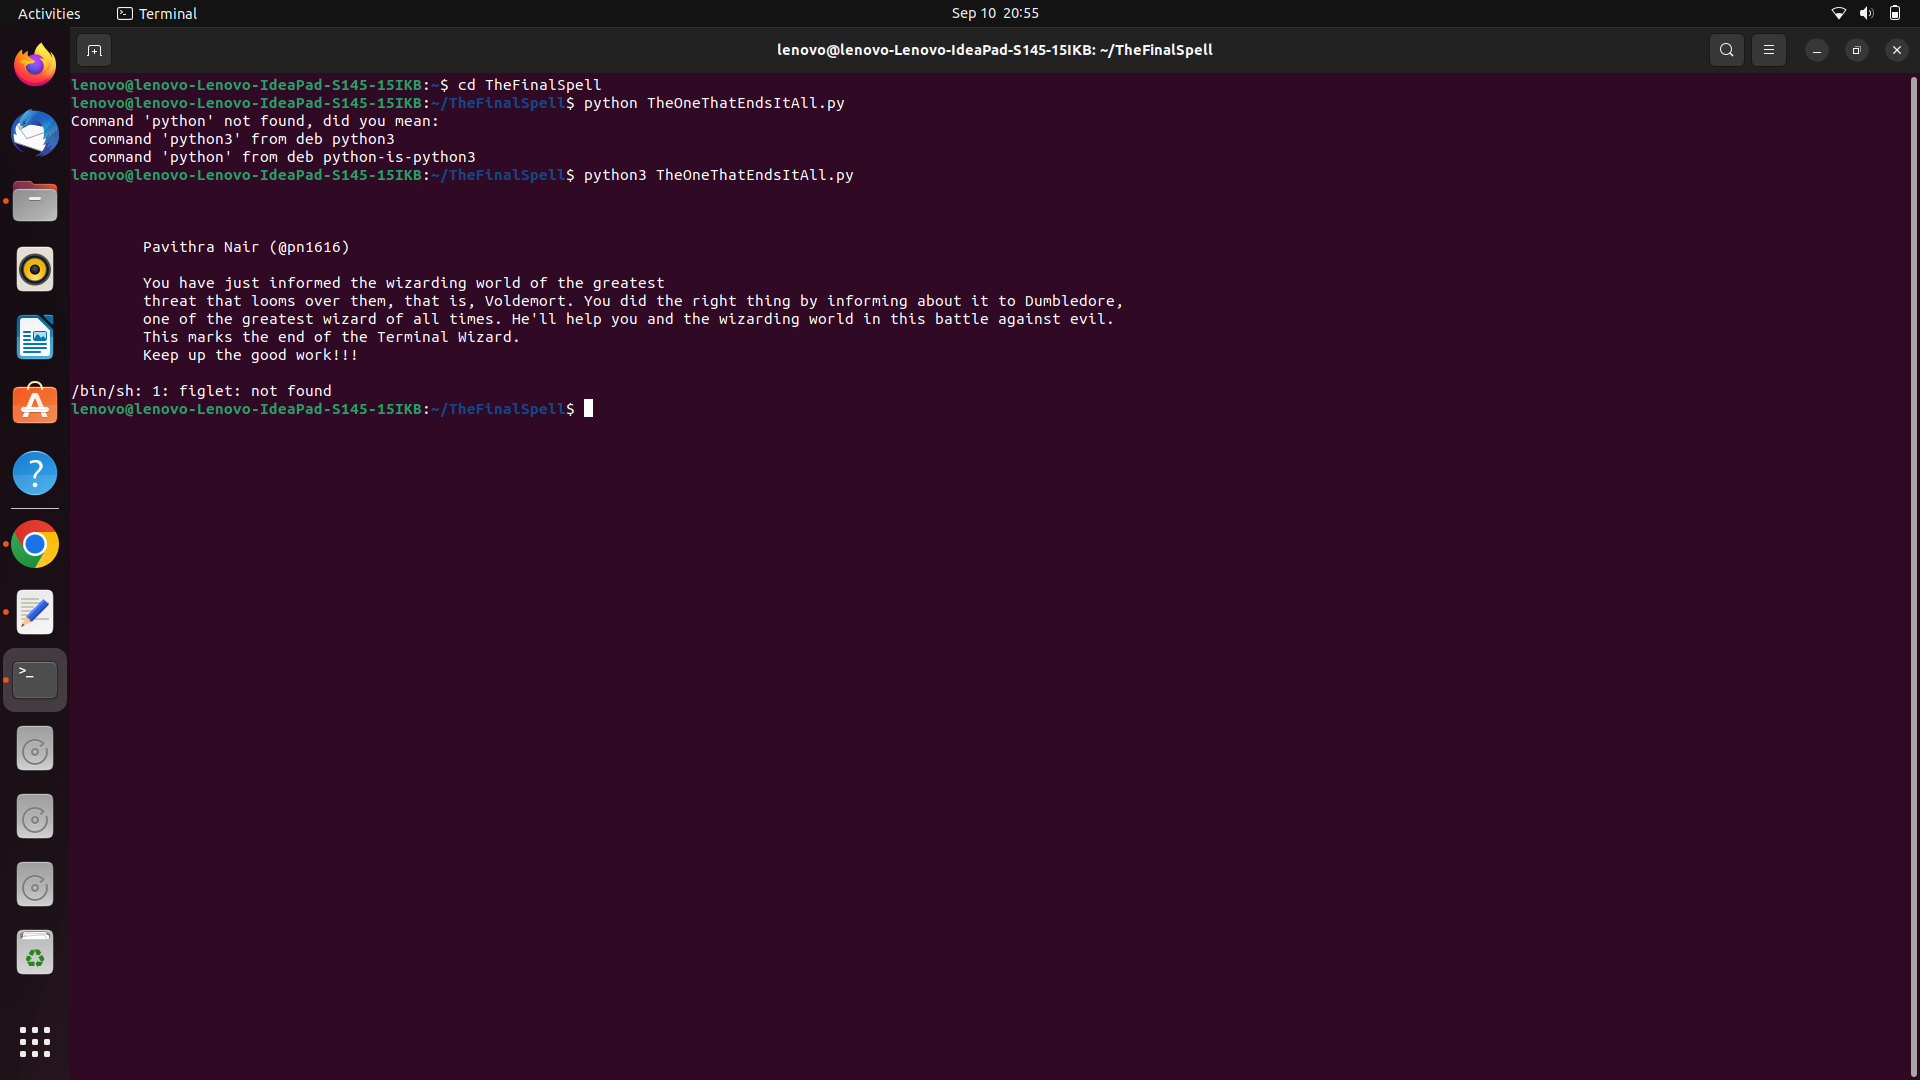
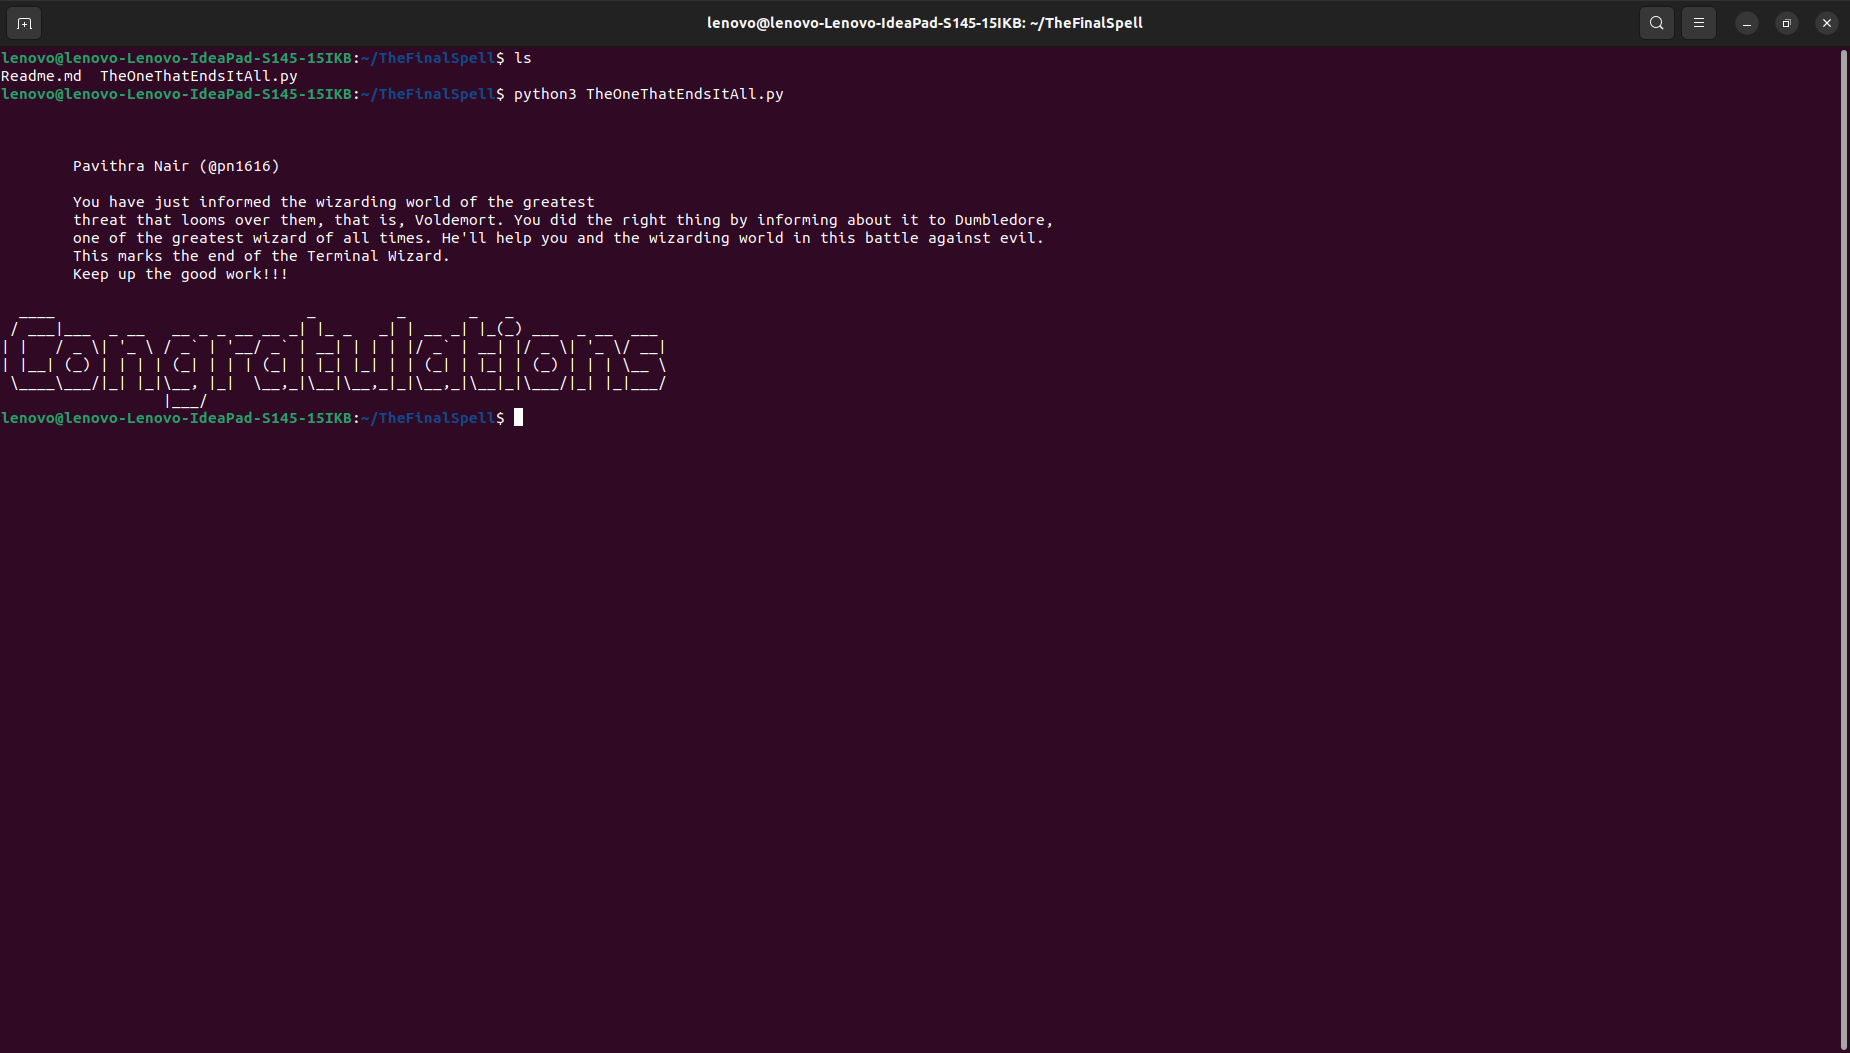
updating bandit and terminal wizard

diff --git a/logs.md b/logs.md
@@ -1,0 +1,81 @@
+# Updates and Logs
+
+I spent a week researching on a few tasks because I did'nt have Ubuntu yet due to some issues with my laptop
+
+- Installed Ubuntu - 09-09-2023
+- Started working on the tasks - 10-09-2023  
+  
+  
+#### Date: 10.09.2023  
+- Hours spent: 4 hours
+- I completed the terminal wizard task. Downloaded Hugo and picked a theme.  
+
+#### Date: 11.09.2023  
+- Hours spent: 7 hours
+- Did three hello world problems : Python, C, C++ . Doing the first two was not that hard as I knew the basics but I had to watch a basic C++ video to write the code for the question and a lot and lot of help from google. Then did a few CP problems, the simple ones. I did not understand the others that much so kept it aside. Completed creating the hugo site but coudn't deploy it to github pages because of some error.
+- Worked on the tasks till 1:30am.
+
+#### Date: 12.09.2023  
+- Hours spent: 8 hours
+- Completed two more hello world languages: Java, Javascript. I had learnt a few things about these languages during the week I spent researching. But needed a lot of help from google. Started HyperText Mockup language task. Created the landing page partially. Had to read into a lot of the html codes online.
+- Worked on the tasks till 2:30am.  
+
+#### Date: 13.09.2023  
+- Hours spent: 9 hours
+- Completed Hyptertext Mockup language successfully. They were many blockers. Very tiny tiny details that was affected by the inefficiency of the css code I wrote, so frustrating. Had to work on it and make it better. 
+- Worked on the tasks till 3am  
+
+#### Date: 14.09.2023
+- Hours spent: 6 hours
+- Started researching on the discord bot. Found it quite difficult. installed the python virtual environment. downloaded the packages required. started writing the code. 
+- Worked on the tasks till 1am  
+
+#### Date: 15.09.2023
+- Hours spent: 3 hours
+- Felt stuck on the discord bot. So i started ak-47 started. researched on manifest and chrome extensions. did halfway through it.
+- Worked on the tasks till 12:30am  
+
+#### Date: 16.09.2023
+- Hours spent: 7 hours
+- Completed AK-47 task. Started researching on the pokesearch task
+- Worked on the tasks till 1:30am  
+
+#### Date: 17.09.2023
+- Hours spent: 12 hours
+- Almost completed Pokesearch. the buttons in the search window are center aligned. couldnt change it. i hope thats okay.
+- Worked on the tasks till 2:30am  
+
+#### Date: 18.09.2023
+- Hours spent: 4 hours
+- Completed PokeSearch. Started researching on flutter and dart for the geoquest app task
+- Worked until: 1:00am  
+
+#### Date: 19.09.2023
+- Hours spent: 2 hours
+- worked on geoquest. was not feeling well so didn't do much.
+- Worked on the tasks till 11:30pm  
+
+#### Date: 20.09.2023
+- Hours spent: 8 hours
+- worked on geoquest. failed miserably. decided its not for me. so started an additional task. completed task-13
+- Worked on the tasks till 1:30am  
+
+#### Date: 21.09.2023
+- Hours spent: 1 hour
+- was travelling from hostel to home. did not do any tasks. there was an issue with my github repo. resolved it
+- Worked on the tasks till 12:00am  
+
+#### Date: 22.09.2023
+- Hours spent: 3 hours
+- was preparing for an interview so only could do a little bit. I had already solved a few euler problems earlier. so i completed task-15. 
+- Worked on the tasks till 12:30am  
+
+#### Date: 23.09.2023
+- Hours spent: 10 hours
+- Had to run the thefinalspell python file again as figlet thing was not shown when i did terminal wizard. so installed figlet. also my hugo site wasn't exactly done so had to redo it twice because of some deployment issues. then tried to the discord bot task again. failed miserably. 
+- Worked on the tasks till 1:00am  
+
+#### Date: 24.09.2023
+- 
+
+

diff --git a/task-01/SOLUTIONS.md b/task-01/SOLUTIONS.md
@@ -1,5 +1,53 @@
-# Terminal Wizard solutions
-I was very apprehensive to start doing the tasks as I was scared of not knowing enough to do the tasks as I have no CS background. But I did anyway. and I'm happy that I could do it without asking for anyone's help and in 2 hours. Also as a Potterhead, it was refreshing to see all the minute details from the books and movies used as clues. 
-<br>
-# Commands used
+## Commands used
+### cd
+to change directory. one of the key commands used all throughout the tasks. it allows us to navigate through directories
+
+### ls
+to see the contents of a directory. adding ``la -a`` will result in showing the hidden files too. 
+
+### touch
+to create a file
+
+### mkdir
+to make a directory
+
+### python3
+to run the file in the terminal itself.
+
+### rm
+to delete files. using ``rm -r`` deletes a directory
+
+### vim
+installed vim. used it to edit the files in the terminal itself
+
+### cat
+opens the file in the terminal
+
+### cp
+copies the file to the given destination. if the destination doesn't exist, it creates one of the same name.
+
+## git commands used
+
+### git clone
+adding a repo link to this command will clone the repo to the local machine so that we can edit and view the files
+
+### git checkout <branch>
+this is used to change branch of the github repository and to view an existing branch. can add ``-b`` to create a new one.
+
+### git init
+reinitialises the existing repository or makes a new one
+
+### git add .
+first step for pushing the changes. it tells git that you want to include updates to a particular file or directory in the next commit.
+
+### git commit -m <commit message> 
+you can give your commit messages. this commands notices all the changes that we made to the repo since the last push. 
+
+### git push origin main
+this pushes the changes to the repo of the main branch. 
+
+### git log
+this command shows the commit logs of the repo. you can also use ``git log --oneline`` to view the logs in one line in a more organized way. 
+
+ 
 

diff --git a/task-14/bandit_overthewire.md b/task-14/bandit_overthewire.md
@@ -1,0 +1,39 @@
+#### bandit 0 to 1:
+- used ``ls -alps``, ``cd`` and ``cat``
+- password for level 1: NH2SXQwcBdpmTEzi3bvBHMM9H66vVXjL  
+
+#### bandit 1 t 2:
+- used ``ls -alps`` ,``cd`` and ``cat``
+- password for level 2: rRGizSaX8Mk1RTb1CNQoXTcYZWU6lgzi  
+
+#### bandit 2 to 3:
+- used ``ls -alps`` ,``cd`` and ``cat``  also used ``\`` for spaces.
+- password for level 3: aBZ0W5EmUfAf7kHTQeOwd8bauFJ2lAiG  
+
+#### bandit 3 to 4:
+- used ``ls -alps``, ``cd`` and ``cat``
+- password for level 4: 2EW7BBsr6aMMoJ2HjW067dm8EgX26xNe  
+
+#### bandit 4 to 5:
+- used ``ls`` , ``find``,``xargs file `` and ``cat`` 
+- password for level 5: lrIWWI6bB37kxfiCQZqUdOIYfr6eEeqR  
+
+#### bandit 5 to 6:
+- used ``ls`` , ``cd`` , ``find`` , ``size`` ,``! -executable`` and ``cat``
+- password for level 6: P4L4vucdmLnm8I7Vl7jG1ApGSfjYKqJU  
+
+#### bandit 6 to 7:
+- used ``find``, ``user``, ``group`` , ``size`` and ``cat``
+- password for level 7: z7WtoNQU2XfjmMtWA8u5rN4vzqu4v99S  
+
+#### bandit 7 to 8:
+- used ``ls -alps`` , ``cat``, ``strings``, ``grep`` and ``cat``
+- password for level 8: TESKZC0XvTetK0S9xNwm25STk5iWrBvP  
+
+###3 bandit 8 to 9:
+- used ``sort``, ``cat`` and ``uniq``.
+- password for level 9: EN632PlfYiZbn3PhVK3XOGSlNInNE00t  
+
+#### bandit 9 to 10:
+- used ``strings`` and ``grep``
+- password for level 10: G7w8LIi6J3kTb8A7j9LgrywtEUlyyp6s

diff --git a/README.md b/README.md
@@ -2,11 +2,18 @@
 
 ## Introspection
 
+## Why should we choose you?
+
+## What are your goals for the next six months? How will you accomplish them?
+
+## How will you contribute back to the club?
+
+
 ## Tasks
 
 **Tasks List**|**Description**|**Status**
 --------------|---------------|---------------
-[Introspection]()|Introspection|Completed
+[Introspection](https://github.com/pn1616/amfoss_tasks/blob/main/README.md#introspection)|Introspection|Completed
 [Task-00](https://github.com/pn1616/amfoss_tasks/tree/main/task-00)|Install Linux|Completed
 [Task-01](https://github.com/pn1616/amfoss_tasks/tree/main/task-01)|Terminal Wizard|Completed
 [Task-02](https://github.com/pn1616/amfoss_tasks/tree/main/task-02)|Lessgo Hugo|Completed
@@ -21,5 +28,5 @@
 [Task-11](https://github.com/pn1616/amfoss_tasks/tree/main/task-11)|TinkerCAD|Unattempted
 [Task-12](https://github.com/pn1616/amfoss_tasks/tree/main/task-12)|Godot|Unattempted
 [Task-13](https://github.com/pn1616/amfoss_tasks/tree/main/task-13)|Vim|Completed
-[Task-14](https://github.com/pn1616/amfoss_tasks/tree/main/task-14)|Bandit|Unattempted
+[Task-14](https://github.com/pn1616/amfoss_tasks/tree/main/task-14)|Bandit|Completed
 [Task-15](https://github.com/pn1616/amfoss_tasks/tree/main/task-15)|Project Euler|Completed

diff --git a/task-01/readme.md b/task-01/readme.md
@@ -1,0 +1,2 @@
+# Terminal Wizard 
+I was very apprehensive to start doing the tasks as I was scared of not knowing enough to do the tasks as I have no CS background. But I did anyway. and I'm happy that I could do this task under 2 hours. Also as a Potterhead, it was refreshing to see all the minute details from the books and movies used as clues. Also had a confusion regarding the element that was first used to create semiconductors. Initially, when i googled, i got it as silicon and my code was wrong. That sort of wasted a lot of my time. But later i got it as germanium and voila- i got the final code. decoded it and got the link. oh! the relieve i felt.   *(from the future: now looking back this tasks were so simple, don't know why i was scared)*
